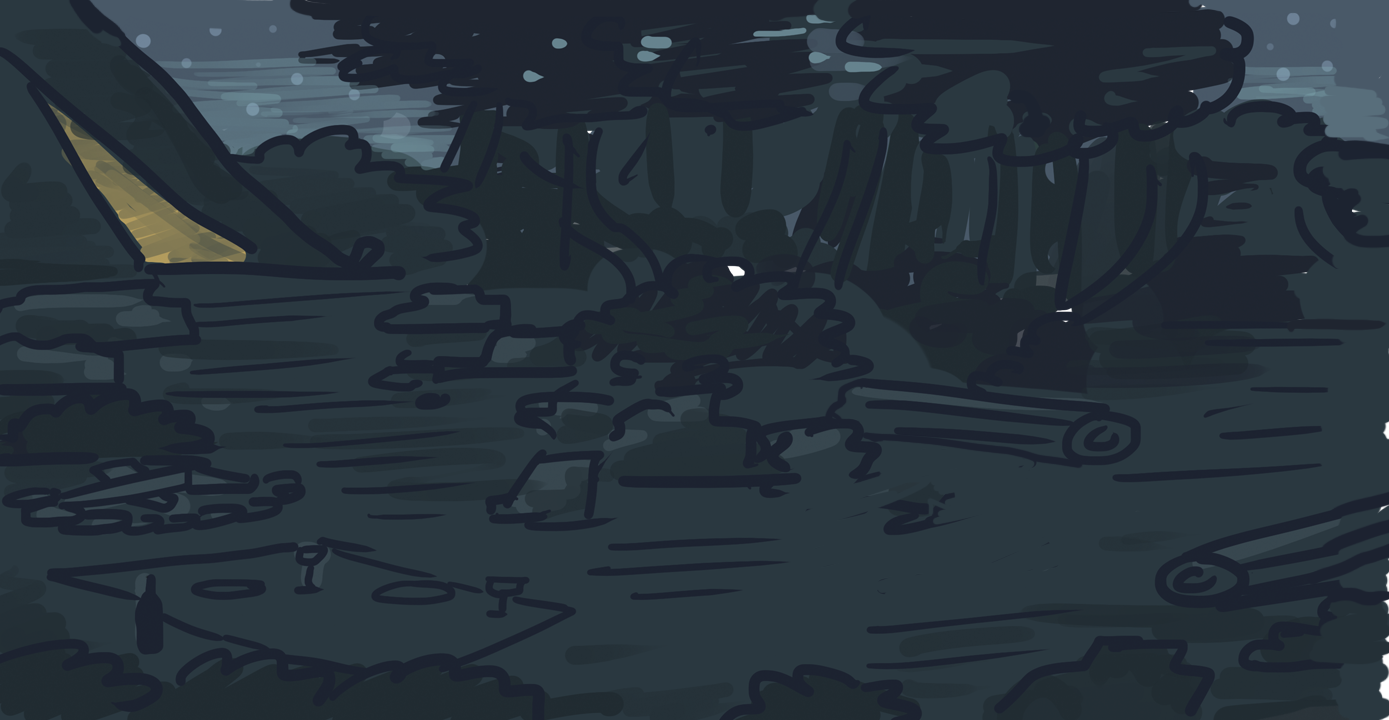
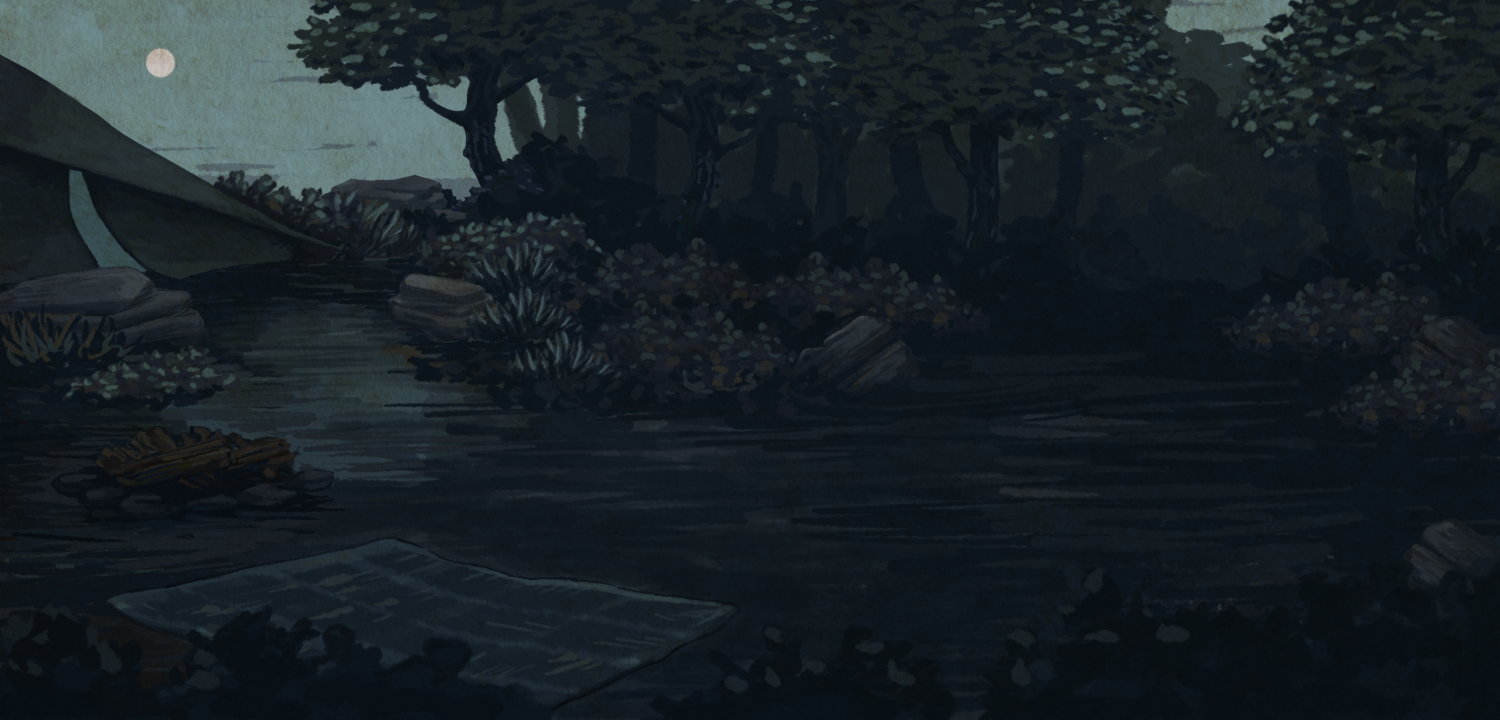
Update camp to new background

diff --git a/src/States/ForestState.cs b/src/States/ForestState.cs
@@ -21,22 +21,21 @@ namespace GGJ2013.States
 
 			var p1 = new Polygon(
 				new Vector2(111, 233),
-new Vector2(339, 304),
-new Vector2(316, 367),
-new Vector2(71, 259));
+				new Vector2(339, 304),
+				new Vector2(316, 367),
+				new Vector2(71, 259));
 
 			var p2 = new Polygon(
 				new Vector2(316, 367),
-
-new Vector2(240, 449),
-new Vector2(160, 414),
-new Vector2(242, 336));
+				new Vector2(240, 449),
+				new Vector2(160, 414),
+				new Vector2(242, 336));
 
 			var p3 = new Polygon(
 				new Vector2(293, 390),
-new Vector2(241, 446),
-new Vector2(492, 555),
-new Vector2(515, 490));
+				new Vector2(241, 446),
+				new Vector2(492, 555),
+				new Vector2(515, 490));
 
 			var p4 = new Polygon(
 				new Vector2(515, 490),

diff --git a/src/States/CampState.cs b/src/States/CampState.cs
@@ -130,8 +130,8 @@ namespace GGJ2013.States
 			TentEntrance = new Hotspot(
 				"Tent Entrance",
 				new Polygon(new Vector2(143, 266),
-new Vector2(40, 90),
-new Vector2(247, 252)),
+				            new Vector2(40, 90),
+				            new Vector2(247, 252)),
 				t =>
 				{
 					G.StateManager.Pop();
@@ -177,6 +177,8 @@ new Vector2(247, 252)),
 					}
 				});
 
+			ItemsToLeave.Add("Papers");
+			ItemsToLeave.Add("Backpack");
 
 			Items.AddRange(new[]
 			{
